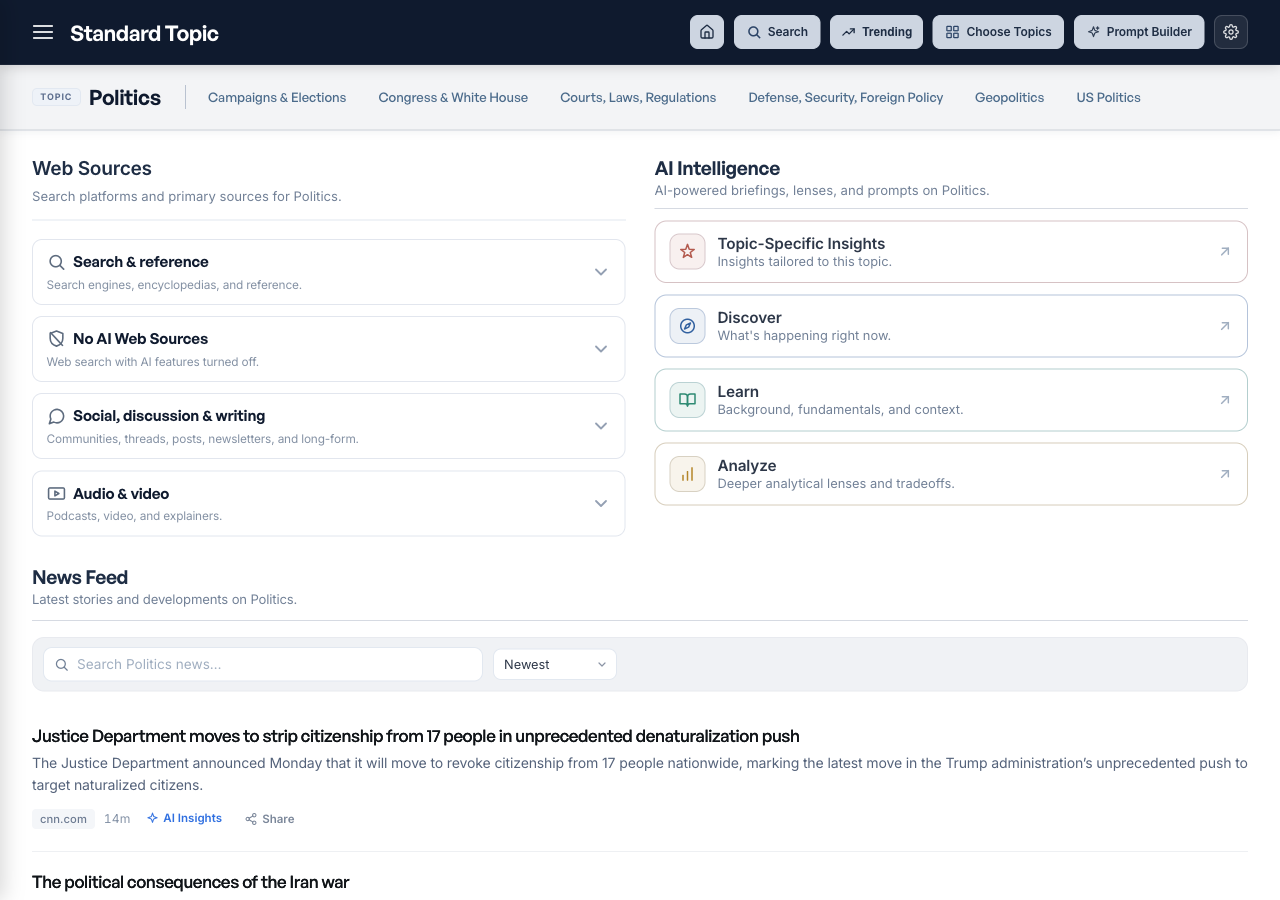
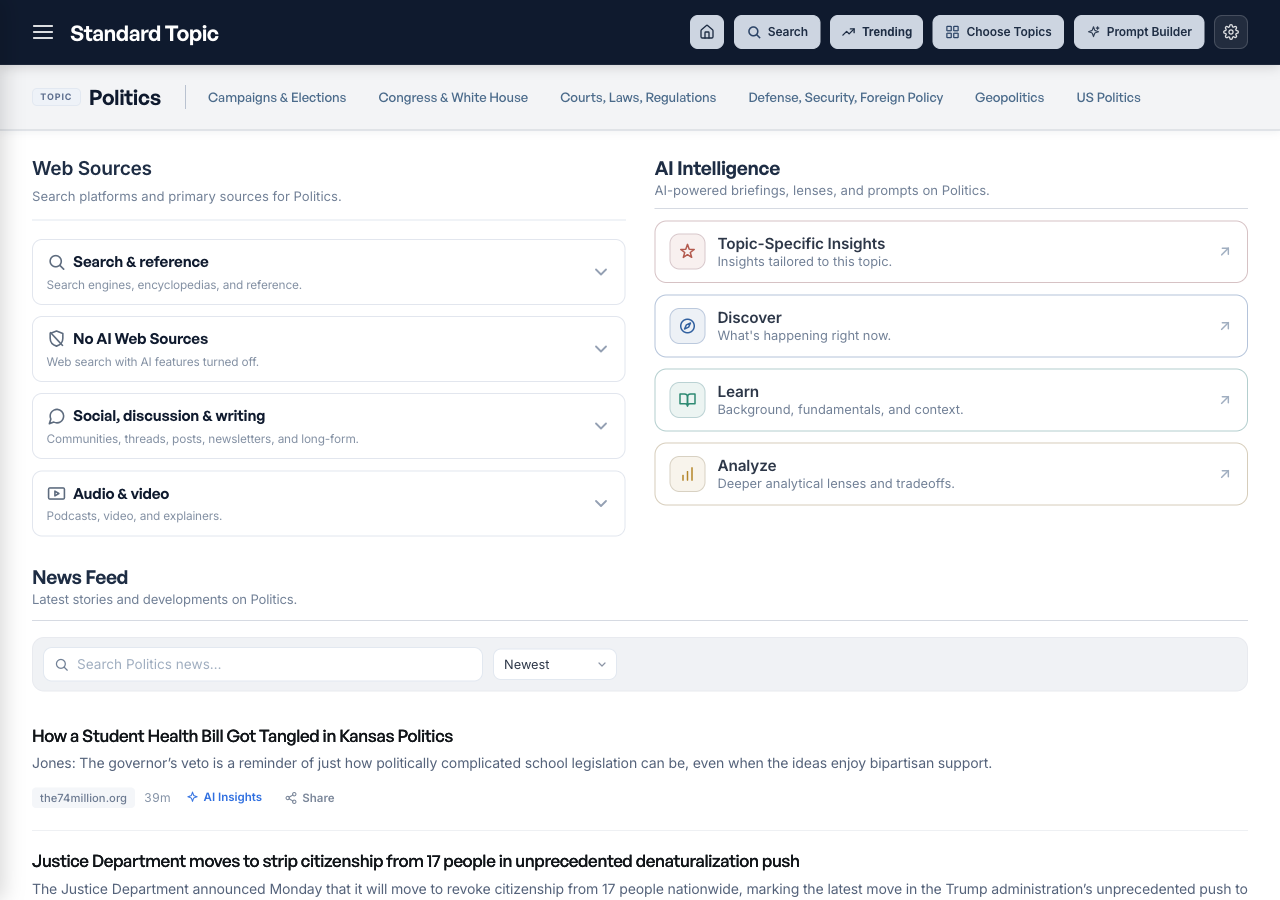
trending: drop Now/Over-time toggle, category filter everywhere + modal scroll fix
- Homepage trending card: removed the 'Showing (Now/Over time)' select;
  category is the only control now (always the live snapshot).
- Trending modal + topic trending tab: added a Category filter (same
  ordered list: Politics/Entertainment/Sports/Law first, Other last).
- Fix the AI Intelligence modal auto-scrolling on open: section-accordion
  scroll-into-view is now click-based (not 'toggle'), so the default
  first-section-open no longer scrolls the modal past its header; body
  scroll is reset to top on mount.
- Cache-bust: trending.js + trending-list-modal.js import versions bumped
  to revamp23 (the modal imported ./trending.js unversioned before).

Changed region(s): [[0.0312, 0.8089, 0.9688, 0.9956]]

diff --git a/js/components/trending.js b/js/components/trending.js
@@ -197,21 +197,61 @@ function trendCardsSkeleton() {
   return `<div class="trending-topics">${trendCardsHead(null)}<div class="trend-card-grid">${cards}</div></div>`;
 }
 
-// Render the "Trending Topics" card grid. limit caps how many cards;
-// viewAll adds a "View all trending →" button (opens the Trending modal).
+// Preferred category order (shared): these first, then the rest A→Z, Other last.
+const TT_CAT_ORDER = ['Politics', 'Entertainment', 'Sports', 'Law and Government'];
+function ttCatRank(c) { const i = TT_CAT_ORDER.indexOf(c); if (i !== -1) return i; return c === 'Other' ? 999 : 500; }
+function ttCatOf(t) { return (t.categories && t.categories[0]) || ''; }
+
+// Render the "Trending Topics" card grid with a Category filter. limit caps how
+// many cards; viewAll adds a "View all trending →" button (opens the modal).
 export function renderTrendingTopics(container, { limit = 20, viewAll = false } = {}) {
   container.innerHTML = trendCardsSkeleton();
+  const state = { all: [], fetched: null, category: 'all' };
+  const catList = () => [...new Set(state.all.map(ttCatOf).filter(Boolean))]
+    .sort((a, b) => (ttCatRank(a) - ttCatRank(b)) || a.localeCompare(b));
+
+  function controlsHTML() {
+    const cats = catList();
+    if (!cats.length) return '';
+    const opts = ['all'].concat(cats).map(c =>
+      `<option value="${escapeAttr(c)}"${state.category === c ? ' selected' : ''}>${c === 'all' ? 'All categories' : escapeHTML(c)}</option>`).join('');
+    return `<div class="trend-controls trend-controls-grid"><label class="trend-select-field"><span class="trend-select-label">Category</span>
+        <select class="trend-select trend-cat-select" aria-label="Filter by category">${opts}</select></label></div>`;
+  }
+  function visible() {
+    const items = state.category === 'all' ? state.all : state.all.filter(t => ttCatOf(t) === state.category);
+    return items.slice(0, limit);
+  }
+  function renderGrid() {
+    const grid = container.querySelector('.trend-card-grid');
+    if (!grid) return;
+    const shown = visible();
+    grid.innerHTML = shown.length ? shown.map((t, i) => trendCardHTML(t, i)).join('') : '<p class="trending-empty">No trends in this category right now.</p>';
+    wireTrendCards(container);
+  }
+  function renderShell() {
+    const shown = visible();
+    container.innerHTML = `
+      <div class="trending-topics">
+        ${trendCardsHead(state.fetched)}
+        ${controlsHTML()}
+        <div class="trend-card-grid">${shown.map((t, i) => trendCardHTML(t, i)).join('')}</div>
+        ${viewAll ? `<button type="button" class="trending-topics-viewall" data-action="view-all-trending">View all trending ${CHEV}</button>` : ''}
+      </div>`;
+    wireTrendCards(container);
+    container.querySelector('.trend-cat-select')?.addEventListener('change', (e) => { state.category = e.target.value; renderGrid(); });
+    container.querySelector('[data-action="view-all-trending"]')?.addEventListener('click', () => {
+      window.dispatchEvent(new CustomEvent('open-trending-list'));
+    });
+  }
+
   fetchTrending().then(({ topics, fetched }) => {
     if (!topics.length) {
       container.innerHTML = `<div class="trending-topics">${trendCardsHead(null)}<p class="trending-empty">Trending is taking a break — check back soon.</p></div>`;
       return;
     }
-    const shown = topics.slice(0, limit);
-    container.innerHTML = trendCardsShell(shown, { fetched, viewAll });
-    wireTrendCards(container);
-    container.querySelector('[data-action="view-all-trending"]')?.addEventListener('click', () => {
-      window.dispatchEvent(new CustomEvent('open-trending-list'));
-    });
+    state.all = topics; state.fetched = fetched;
+    renderShell();
   }).catch(() => {
     container.innerHTML = `<div class="trending-topics"><div class="trending-topics-head"><h3 class="trending-topics-title">Trending Topics</h3></div><p class="trending-empty">Trending is taking a break — check back soon.</p></div>`;
   });
@@ -283,24 +323,10 @@ export function renderTrendingHome(container, { limit = 12 } = {}) {
     const cats = catList();
     const catOpts = ['all'].concat(cats).map(c =>
       `<option value="${escapeAttr(c)}"${state.category === c ? ' selected' : ''}>${c === 'all' ? 'All categories' : escapeHTML(c)}</option>`).join('');
-    const sortField = state.mode === 'over'
-      ? `<label class="trend-select-field"><span class="trend-select-label">Sort</span>
-           <select class="trend-select trend-sort" aria-label="Sort trends">
-             <option value="recent"${state.sort === 'recent' ? ' selected' : ''}>Most recent</option>
-             <option value="volume"${state.sort === 'volume' ? ' selected' : ''}>Top volume</option>
-             <option value="duration"${state.sort === 'duration' ? ' selected' : ''}>Longest trending</option>
-           </select></label>`
-      : '';
     return `
       <div class="trend-controls">
-        <label class="trend-select-field"><span class="trend-select-label">Showing</span>
-          <select class="trend-select trend-mode-select" aria-label="Trending timeframe">
-            <option value="now"${state.mode === 'now' ? ' selected' : ''}>Now</option>
-            <option value="over"${state.mode === 'over' ? ' selected' : ''}>Over time</option>
-          </select></label>
         <label class="trend-select-field"><span class="trend-select-label">Category</span>
           <select class="trend-select trend-cat-select" aria-label="Filter by category">${catOpts}</select></label>
-        ${sortField}
       </div>`;
   }
 
@@ -326,13 +352,9 @@ export function renderTrendingHome(container, { limit = 12 } = {}) {
           <button type="button" class="trend-viewmore" data-action="view-all-trending">View more</button>
         </div>
       </div>`;
-    container.querySelector('.trend-mode-select')?.addEventListener('change', (e) => {
-      if (e.target.value === state.mode) return; state.mode = e.target.value; load();
-    });
     container.querySelector('.trend-cat-select')?.addEventListener('change', (e) => {
       state.category = e.target.value; renderGrid();
     });
-    container.querySelector('.trend-sort')?.addEventListener('change', (e) => { state.sort = e.target.value; load(); });
     container.querySelector('[data-action="view-all-trending"]')?.addEventListener('click', () => {
       window.dispatchEvent(new CustomEvent('open-trending-list'));
     });

diff --git a/js/components/insight-modal.js b/js/components/insight-modal.js
@@ -431,9 +431,14 @@ function renderOverview(d) {
   })();
 }
 // When a section accordion opens, bring its header to the top of the scroll
-// area so the just-revealed content starts where the eye is.
+// area so the just-revealed content starts where the eye is. Click-based (not
+// 'toggle') so the default first-section-open never auto-scrolls on load.
 function wireOvsecScroll() {
   panelEl.querySelectorAll('.im-ovsec').forEach((det) => {
-    det.addEventListener('toggle', () => { if (det.open) scrollHeaderToTop(det.querySelector('.im-ovsec-sum')); });
+    const sum = det.querySelector('.im-ovsec-sum');
+    if (!sum) return;
+    sum.addEventListener('click', () => { requestAnimationFrame(() => { if (det.open) scrollHeaderToTop(sum); }); });
   });
+  const body = panelEl.querySelector('.im-body');
+  if (body) body.scrollTop = 0;
 }

diff --git a/js/app.js b/js/app.js
@@ -12,11 +12,11 @@ import { renderRelatedTopics } from './components/related-topics.js';
 import { renderPromptGenerator } from './components/prompt-generator.js';
 import { initPromptBuilderModal, openPromptBuilderModal, closePromptBuilderModal } from './components/prompt-builder-modal.js?v=20260606-polish43';
 import { initPromptModal } from './components/prompt-modal.js?v=20260605-polish30';
-import { renderTrending, renderTrendingTopics, renderTrendingHome } from './components/trending.js?v=20260608-revamp13';
+import { renderTrending, renderTrendingTopics, renderTrendingHome } from './components/trending.js?v=20260608-revamp23';
 import { DEFAULT_GROUP_DEFS, groupShortcuts, renderTIAccordion, webSourceItem, TI_SECTION_META } from './components/ti-shortcuts.js';
 import { initTrendingDetailModal } from './components/trending-detail-modal.js?v=20260608-revamp9';
-import { initInsightModal } from './components/insight-modal.js?v=20260608-revamp22';
-import { initTrendingListModal } from './components/trending-list-modal.js?v=20260606-polish41';
+import { initInsightModal } from './components/insight-modal.js?v=20260608-revamp23';
+import { initTrendingListModal } from './components/trending-list-modal.js?v=20260608-revamp23';
 import { initDiscoverModal } from './components/discover-modal.js';
 import { initAllTopicsModal } from './components/all-topics-modal.js?v=20260606-polish46';
 import { initRelatedTopicsModal } from './components/related-topics-modal.js';

diff --git a/index.html b/index.html
@@ -80,7 +80,7 @@
     </script>
 
     <!-- Styles -->
-    <link rel="stylesheet" href="css/styles.css?v=20260608-revamp22">
+    <link rel="stylesheet" href="css/styles.css?v=20260608-revamp23">
 
     <!-- Structured Data -->
     <script type="application/ld+json">
@@ -117,7 +117,7 @@
       <main id="content"></main>
     </div>
 
-    <script type="module" src="js/app.js?v=20260608-revamp22"></script>
+    <script type="module" src="js/app.js?v=20260608-revamp23"></script>
   </body>
 
 </html>

diff --git a/js/components/trending-list-modal.js b/js/components/trending-list-modal.js
@@ -4,7 +4,7 @@
 // Updated" meta, and the fade-scrolled list whose rows open the trending
 // detail modal. Sits BELOW the detail modal (z 150) so a clicked term
 // stacks its detail view on top.
-import { renderTrending } from './trending.js';
+import { renderTrending } from './trending.js?v=20260608-revamp23';
 
 let overlayEl = null;
 let panelEl = null;